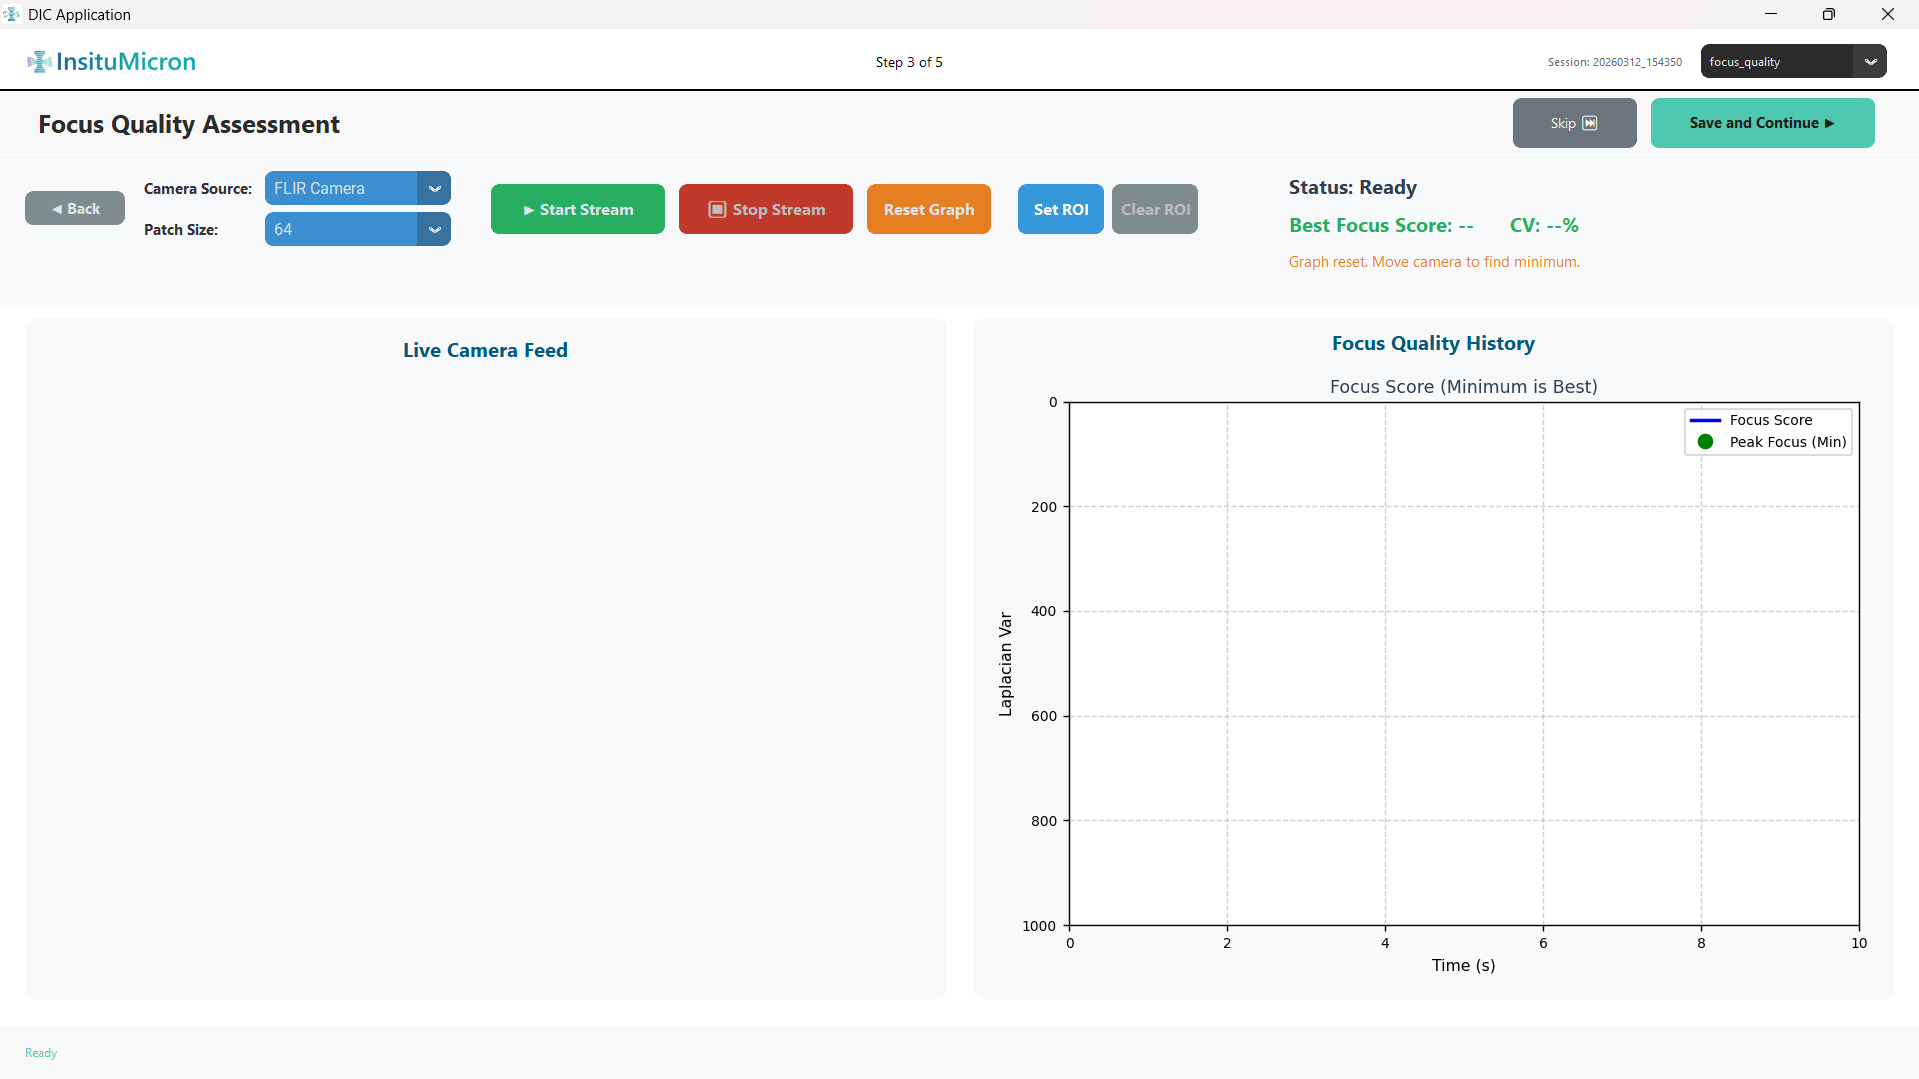
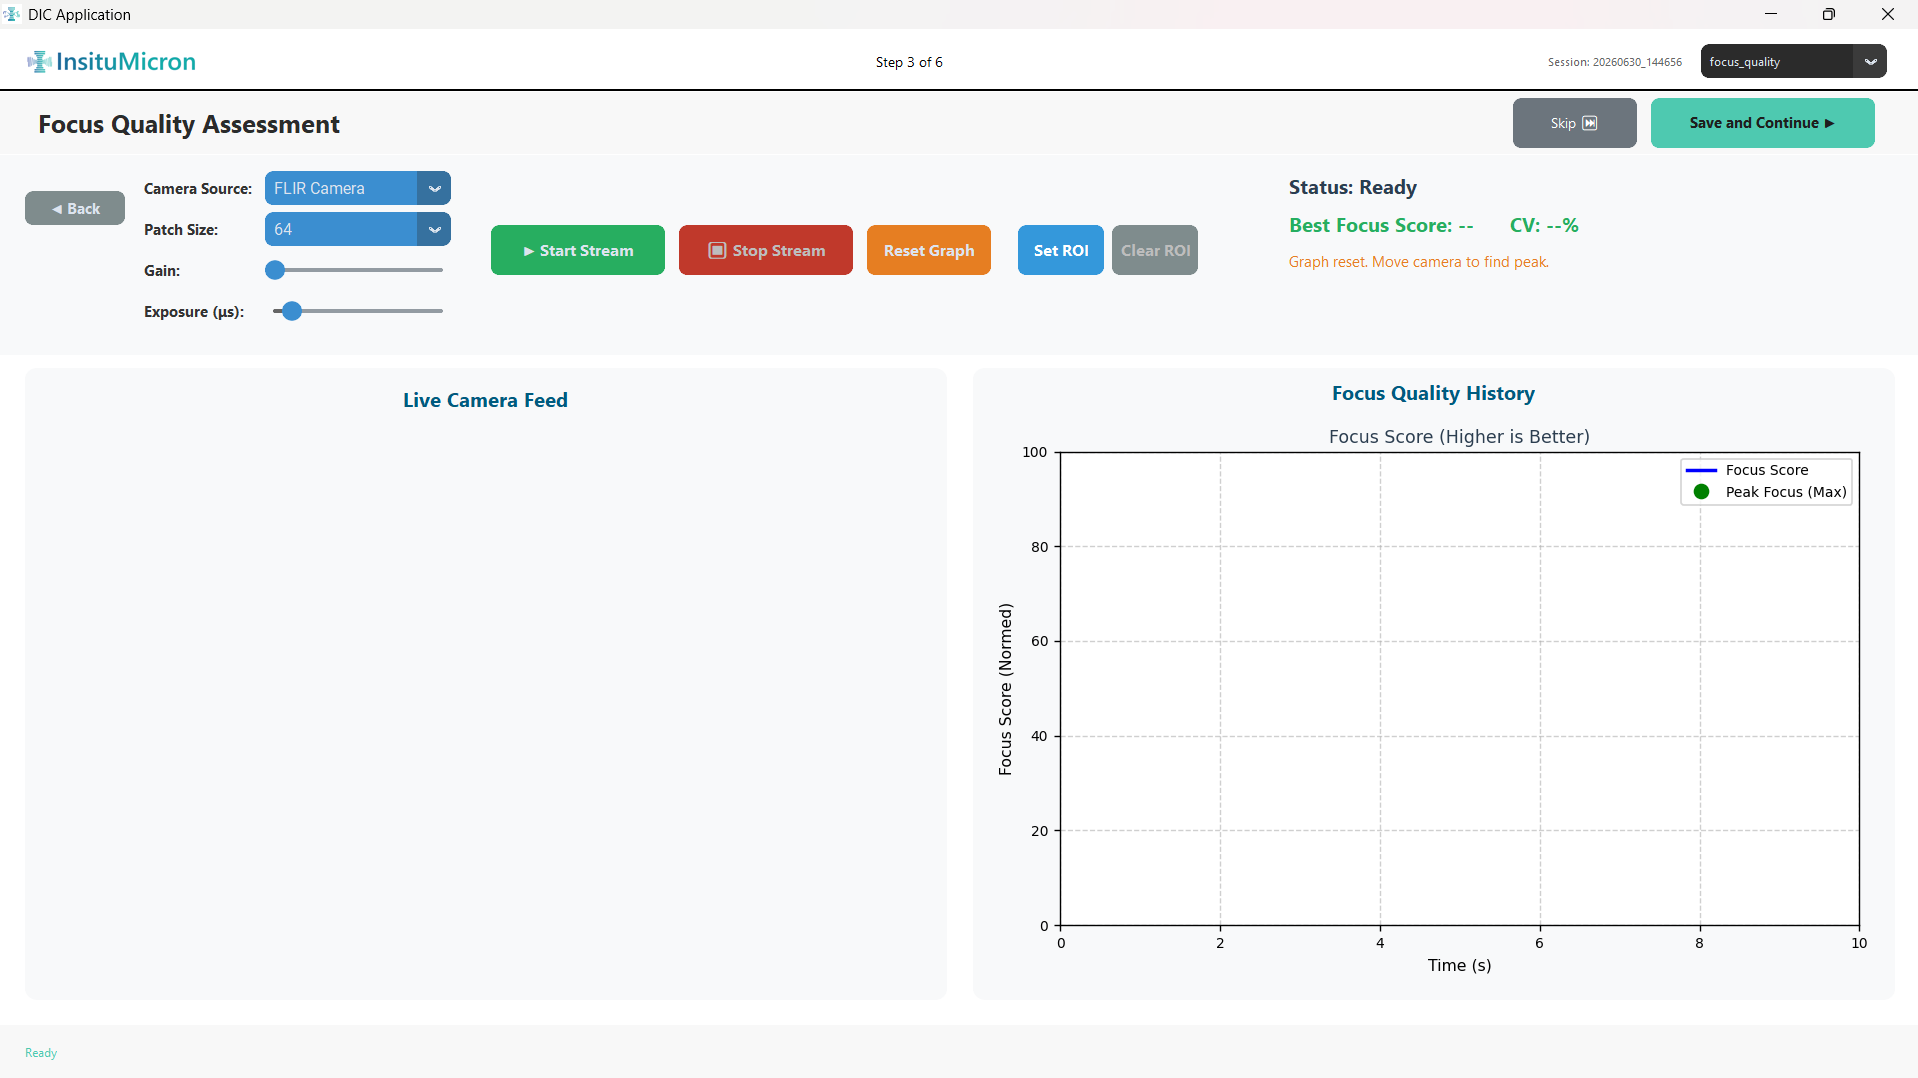
Update Module 3 manual and images for new max focus logic

diff --git a/module3_focus_quality.html b/module3_focus_quality.html
@@ -135,7 +135,7 @@
         <tr><td>Reset Graph (orange button)</td><td>Clears all accumulated graph history (time series, best score). Useful when you want to start a fresh focus search after repositioning the camera significantly.</td></tr>
         <tr><td>Status: label (center)</td><td>Real-time status text showing the current quality rating (e.g., <em>"Status: EXCELLENT | Focus: 1423.2 | CV: 12.4%"</em>). Color changes: green for EXCELLENT/ACCEPTABLE, yellow for MARGINAL, red for POOR.</td></tr>
         <tr><td>Guidance text (orange, next to status)</td><td>Dynamic instruction that updates based on focus trend: <em>"Move the camera/specimen slowly to find the peak"</em>, <em>"✅ New best focus! Hold position or try to improve."</em>, or <em>"❌ Focus degraded! Move back towards the peak."</em></td></tr>
-        <tr><td>Best Focus Score: (green label, top-right)</td><td>Displays the single best focus score recorded during this session (or since last Reset). <strong>Lower score = sharper image</strong> because the Y-axis is inverted — the software tracks the minimum of a Laplacian-based metric.</td></tr>
+        <tr><td>Best Focus Score: (green label, top-right)</td><td>Displays the single best focus score recorded during this session (or since last Reset). <strong>Higher score = sharper image</strong>. The software isolates the sharpest 20% of the image (or ROI) to calculate a robust max peak score.</td></tr>
       </tbody>
     </table></div>
 
@@ -148,7 +148,7 @@
       </tbody>
     </table></div>
 
-    <div class="tip">How to use: Watch the Status label and the Best Focus Score while slowly rotating the camera focus ring — or moving the specimen axially — from one extreme to the other. The point where the Best Focus Score value is at its minimum (and the label reads EXCELLENT) is your optimal focus position. Hold that position.</div>
+    <div class="tip">How to use: Watch the Status label and the Best Focus Score while slowly rotating the camera focus ring — or moving the specimen axially — from one extreme to the other. The point where the Best Focus Score value is at its <strong>maximum</strong> (and the label reads EXCELLENT) is your optimal focus position. Hold that position.</div>
 
     <h3 id="lf-graphs">Right Panel — Real-Time Graph</h3>
     <p>A real-time graph updates automatically every time a new frame is analyzed (approximately every 50 ms, i.e., up to ~10 FPS).</p>
@@ -162,10 +162,10 @@
     <div class="tbl-wrap"><table>
       <thead><tr><th>Element</th><th>Description</th></tr></thead>
       <tbody>
-        <tr><td><strong>Blue line</strong></td><td>The mean focus score plotted continuously over time (seconds on the X axis). <strong>Lower value = sharper focus.</strong> The Y axis is deliberately inverted so that sharper focus appears visually higher on the chart — making the "best" position easy to see as a peak.</td></tr>
-        <tr><td><strong>Green dot — "Peak Focus (Min)"</strong></td><td>A marker placed at the single minimum (best) focus score observed during the current session. As you improve focus, this dot moves upward on the chart. Use it as your target.</td></tr>
+        <tr><td><strong>Blue line</strong></td><td>The mean focus score of the sharpest image regions plotted continuously over time (seconds on the X axis). <strong>Higher value = sharper focus.</strong> Watch for the peak to find the optimal focal plane.</td></tr>
+        <tr><td><strong>Green dot — "Peak Focus (Max)"</strong></td><td>A marker placed at the single maximum (best) focus score observed during the current session. As you improve focus, this dot moves upward on the chart. Use it as your target.</td></tr>
         <tr><td><strong>X axis</strong></td><td>Displays up to the last 60 seconds of data. Scrolls automatically to keep the most recent readings visible.</td></tr>
-        <tr><td><strong>Y axis (inverted)</strong></td><td>Dynamically auto-scales to the range of values observed.</td></tr>
+        <tr><td><strong>Y axis</strong></td><td>Dynamically auto-scales to the range of values observed.</td></tr>
       </tbody>
     </table></div>
 